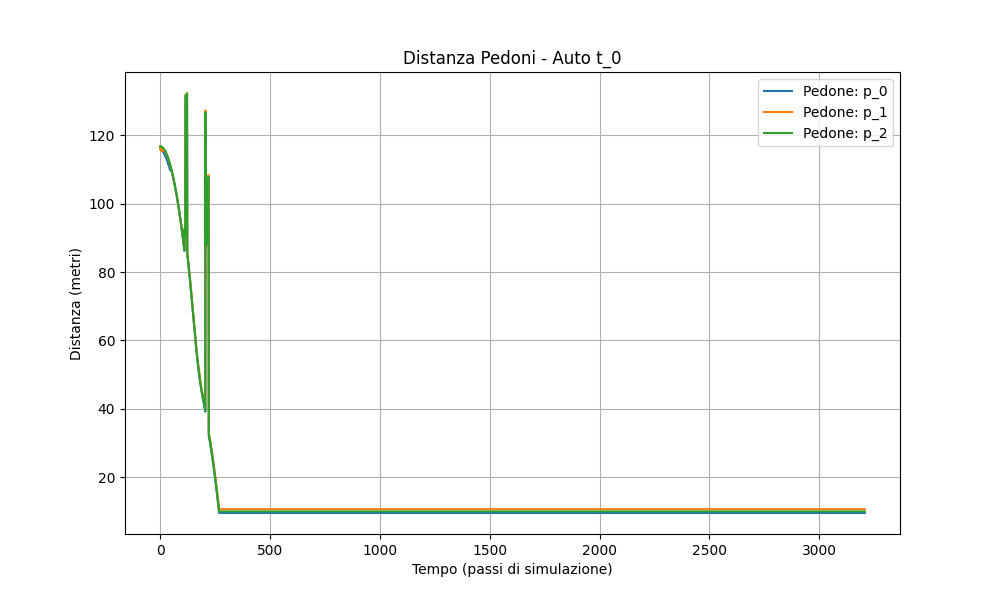
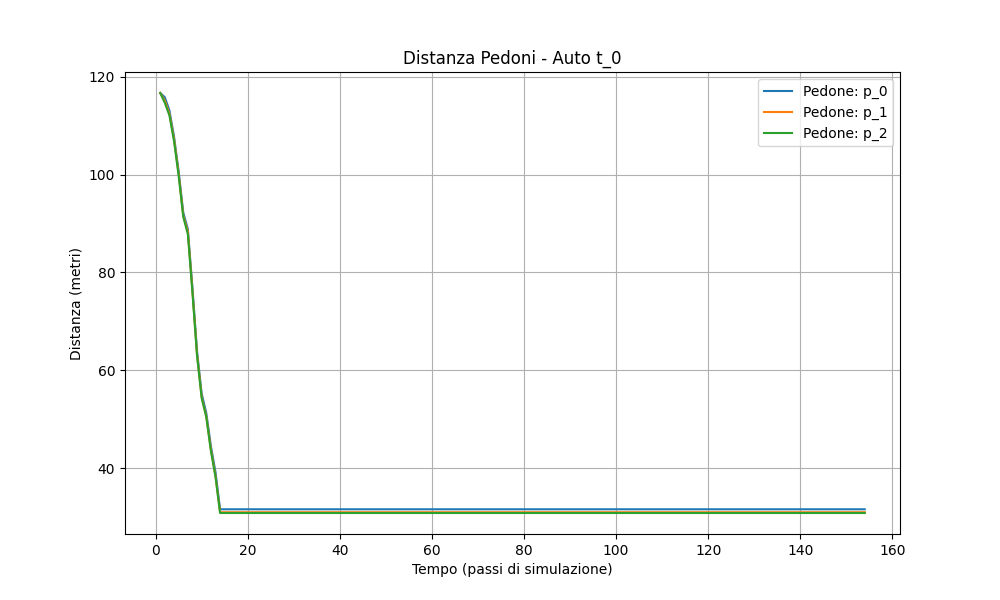
implemented collisions ans change lane, not working

diff --git a/sumo_simulation/sumo_test/test_traciModOnga.py b/sumo_simulation/sumo_test/test_traciModOnga.py
@@ -3,6 +3,7 @@ import sys
 import random
 from keras.models import load_model
 import traci
+import sumolib  # Import sumolib
 import matplotlib.pyplot as plt
 import shutil
 import numpy as np
@@ -10,7 +11,7 @@ import xml.etree.ElementTree as ET
 
 # Carico Rete neurale
 try:
-    model_name = os.path.join(os.path.dirname(os.path.abspath(__file__)), "sumo_simulation", "sumo_test", "final_generation_models", "individual_0.keras")    
+    model_name = os.path.join(os.path.dirname(os.path.abspath(__file__)), "final_generation_models", "individual_0.keras")
     model = load_model(model_name)
     print("Modello caricato con successo da", model_name)
     model.summary()
@@ -65,6 +66,7 @@ def plot_distances(distance_data, pair_names, simulation_steps, title, save_dir=
     print(f"Grafico salvato in: {filepath}")
 
 
+
 def defineScenario(dbase, vehicleID):
     dbase[vehicleID] = {'nPassenger': random.randint(0, 5),
                         'probPassenger': random.uniform(0, 1),
@@ -75,12 +77,13 @@ def defineScenario(dbase, vehicleID):
     return dbase[vehicleID]['nPedestrian'] # Restituisci il numero di pedoni
 
 
+
 def calculate_and_store_distance(vehicle_id, person_id, step):
     """Calcola la distanza tra un veicolo e un pedone e la memorizza."""
     global distance_data_t0, distance_data_t1, pair_names, simulation_steps
-    posV = t.vehicle.getPosition(vehicle_id)
-    posP = t.person.getPosition(person_id)
-    distance = t.simulation.getDistance2D(posV[0], posV[1], posP[0], posP[1], isDriving=True)
+    posV = traci.vehicle.getPosition(vehicle_id)
+    posP = traci.person.getPosition(person_id)
+    distance = traci.simulation.getDistance2D(posV[0], posV[1], posP[0], posP[1], isDriving=True)
 
     pair_key = f"{vehicle_id}-{person_id}"
     if pair_key not in pair_names:
@@ -98,23 +101,33 @@ def calculate_and_store_distance(vehicle_id, person_id, step):
     simulation_steps.append(step)
 
 
+
 def modify_pedestrian_routes(route_file, num_pedestrians):
     """Modifica il file di route dei pedoni in base al numero specificato."""
-    tree = ET.parse(route_file)
-    root = tree.getroot()
+    try:
+        tree = ET.parse(route_file)
+        root = tree.getroot()
 
-    # Rimuovi tutti gli elementi 'person' esistenti
-    for person in root.findall('person'):
-        root.remove(person)
+        # Rimuovi tutti gli elementi 'person' esistenti
+        for person in root.findall('person'):
+            root.remove(person)
 
-    # Aggiungi nuovi elementi 'person' in base a num_pedestrians
-    for i in range(num_pedestrians):
-        person = ET.SubElement(root, "person", id=f"p_{i}", depart="0.00")
-        person_trip = ET.SubElement(person, "personTrip", attrib={"from": "-E4", "to": "E6"})
+        # Aggiungi nuovi elementi 'person' in base a num_pedestrians
+        for i in range(num_pedestrians):
+            person = ET.SubElement(root, "person", id=f"p_{i}", depart="0.00")
+            person_trip = ET.SubElement(person, "personTrip", attrib={"from": "-E4", "to": "E6"})
 
-    # Scrivi le modifiche nel file (sovrascrivendo l'originale)
-    tree.write(route_file, encoding="UTF-8", xml_declaration=True)
-    print(f"File delle route dei pedoni '{route_file}' modificato con {num_pedestrians} pedoni.")
+        # Scrivi le modifiche nel file (sovrascrivendo l'originale)
+        tree.write(route_file, encoding="UTF-8", xml_declaration=True)
+        print(f"File delle route dei pedoni '{route_file}' modificato con {num_pedestrians} pedoni.")
+
+    except FileNotFoundError:
+        print(f"Errore: Il file '{route_file}' non è stato trovato nella directory corrente.")
+        sys.exit(1)
+    except ET.ParseError as e:
+        print(f"Errore durante l'analisi del file XML '{route_file}': {e}")
+        sys.exit(1)
+
 
 
 # --- Directory dei grafici ---
@@ -128,7 +141,16 @@ os.makedirs(save_path)
 # --- Fine Directory dei grafici ---
 
 # Inizializza SUMO
-t = traci.connect(27910)
+# t = traci.connect(27910) # Removed: Start SUMO with traci.start
+
+traci.start([sumolib.checkBinary('sumo'),
+            "-n", "TestCreazioneRete/trolleyNet.net.xml",  # Replace with your network file
+            "-r", "TestCreazioneRete/trolleyNetCar.rou.xml, TestCreazioneRete/trolleyNetPed.rou.xml ",  # Replace with your routes file
+            "--collision.check-junctions",
+            "--collision-output", "collisions.xml",
+            "--no-step-log"
+            ])
+# --- End of incorporated SUMO startup ---
 
 # Dati per i grafici
 distance_data_t0 = {}
@@ -139,18 +161,26 @@ simulation_steps = []
 lista_attivi = []
 step_count = 0
 simulation_time = 0
-max_simulation_time = 40
+max_simulation_time = 40  # Set a maximum simulation time
 
 # --- Genera lo scenario UNA SOLA VOLTA e ottieni il numero di pedoni ---
 dbase = {}
-
-for i in range(1, 10):
-    num_pedestrians_scenario = defineScenario(dbase, "t_1")
+num_pedestrians_scenario = defineScenario(dbase, "t_1")
 
 # Modifica il file delle route dei pedoni
-pedestrian_route_file = "TestCreazioneRete/trolleyNetPed.rou.xml"
-pedestrian_route_file = os.path.join(os.path.dirname(os.path.abspath(__file__)), pedestrian_route_file)
+pedestrian_route_file = "TestCreazioneRete/trolleyNetPed.rou.xml"  # Adjust the path if needed
+pedestrian_route_file = os.path.join(os.path.dirname(os.path.abspath(__file__)), pedestrian_route_file) #make path absolute
 modify_pedestrian_routes(pedestrian_route_file, num_pedestrians_scenario)
+
+# --- Carica il modello con percorso relativo ---
+try:
+    model_name_relative = os.path.join(os.path.dirname(os.path.abspath(__file__)), "final_generation_models", "individual_0.keras")
+    model = load_model(model_name_relative)
+    print("Modello caricato con successo da", model_name_relative)
+    model.summary()
+except Exception as e:
+    print(f"Si è verificato un errore durante il caricamento del modello: {e}")
+    model = None
 
 scenario = np.array([
     dbase["t_1"]["nPassenger"],
@@ -162,27 +192,38 @@ scenario = np.array([
 scenario = scenario.reshape(1, 5)  # Reshape per il batch
 
 print("Scenario:", scenario)
+# --- Fine generazione scenario ---
 
-while simulation_time < max_simulation_time:
+# traci.simulationStep() # Removed, already in traci.start
 
-    l = t.simulationStep()
+while traci.simulation.getMinExpectedNumber() > 0 and simulation_time < max_simulation_time:
+    traci.simulationStep()
     step_count += 1
-    simulation_time = t.simulation.getTime()
-    collisions = t.simulation.getCollisions()
+    simulation_time = traci.simulation.getTime()
+    collisions = traci.simulation.getCollisions()
 
-    for v1 in t.vehicle.getIDList():
-        for p1 in t.person.getIDList():
-            print("calcolo la distanza fra ", v1, " e ", p1)
+    # --- Vehicle control from runner.py ---
+    for vehID in traci.simulation.getDepartedIDList():
+        if traci.vehicle.getTypeID(vehID) == "reckless":
+            traci.vehicle.setSpeedMode(vehID, 0)
+            traci.vehicle.setSpeed(vehID, 15)
+    # --- End of vehicle control ---
+
+    for v1 in traci.vehicle.getIDList():
+        for p1 in traci.person.getIDList():
+            # print("calcolo la distanza fra ", v1, " e ", p1)
             calculate_and_store_distance(v1, p1, step_count)
 
     for collision in collisions:
-        collider_id = collision.__getattr__('collider')
-        victim_id = collision.__getattr__('victim')
+        collider_id = collision.collider
+        victim_id = collision.victim
 
-        if collider_id.startswith('vehicle') and victim_id.startswith('person'):
-            posV = t.vehicle.getPosition(collider_id)
-            posP = t.person.getPosition(victim_id)
-            distance = t.simulation.getDistance2D(posV[0], posV[1], posP[0], posP[1], isDriving=True)
+        # Improved collision detection
+        if (traci.vehicle.isVehicle(collider_id) and traci.person.isPerson(victim_id)) or \
+           (traci.person.isPerson(collider_id) and traci.vehicle.isVehicle(victim_id)):
+            posV = traci.vehicle.getPosition(collider_id)
+            posP = traci.person.getPosition(victim_id)
+            distance = traci.simulation.getDistance2D(posV[0], posV[1], posP[0], posP[1], isDriving=True)
             print(f"Collisione! Veicolo: {collider_id}, Pedone: {victim_id}, Distanza: {distance}")
             print(f"Posizione Veicolo: {posV}, Posizione Pedone: {posP}")
 
@@ -192,21 +233,21 @@ while simulation_time < max_simulation_time:
             print(collision)
 
     # --- Controllo del veicolo t_1 con la rete neurale ---
-    if model is not None and "t_1" in t.vehicle.getIDList():
+    if model is not None and "t_1" in traci.vehicle.getIDList():
         # Usa lo scenario generato all'inizio
         prediction = model.predict(scenario)
 
-        # Interpreta la previsione e applica le azioni al veicolo
-        # ***QUESTA PARTE DEVE ESSERE ADATTATA AL TUO MODELLO***
-        # Esempio:
-        acceleration = prediction[0][0]
-        steering = prediction[0][1]
+        # Interpreta la previsione e applica le azioni al veicolo: DA MODIFICARE
+        # print(f"Prediction: {prediction}") #useful for debug
+        if abs(prediction[0][0]) < 0.5:  # Example threshold, adjust as needed
+            try:
+                traci.vehicle.changeLane("t_1", 1, 0.5)  # Use a safe lane change
+            except:
+                print("lane change failed")
+        elif abs(prediction[0][0]) >= 0.5:
+            pass
 
-        target_speed = t.vehicle.getSpeed("t_1") + acceleration * 5
-        t.vehicle.setSpeed("t_1", max(0, target_speed))
-
-        # Esempio di sterzo (molto semplificato, vedi nota precedente)
-        # t.vehicle.setAngle("t_1", steering * 10) # Non esiste setAngle. Serve changeLane o altro
+        print("Prediction: ", prediction)
     # --- Fine controllo veicolo t_1 ---
 
 # Creazione grafici
@@ -215,4 +256,5 @@ if distance_data_t0:
 if distance_data_t1:
     plot_distances(distance_data_t1, pair_names, simulation_steps, "Distanza Pedoni - Auto t_1", save_path)
 
-t.close()
+traci.close()
+
